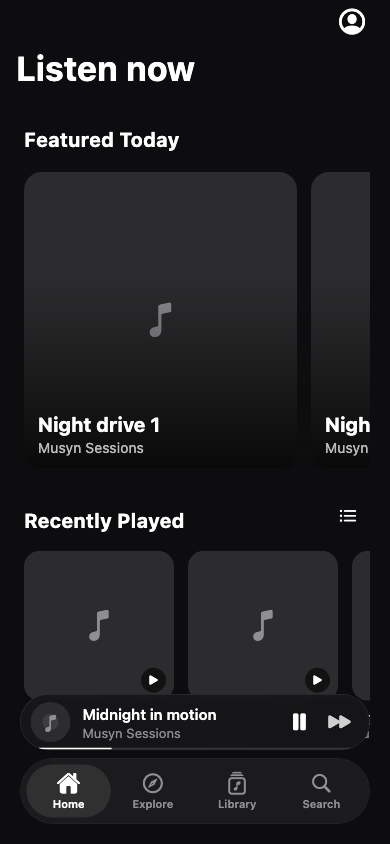
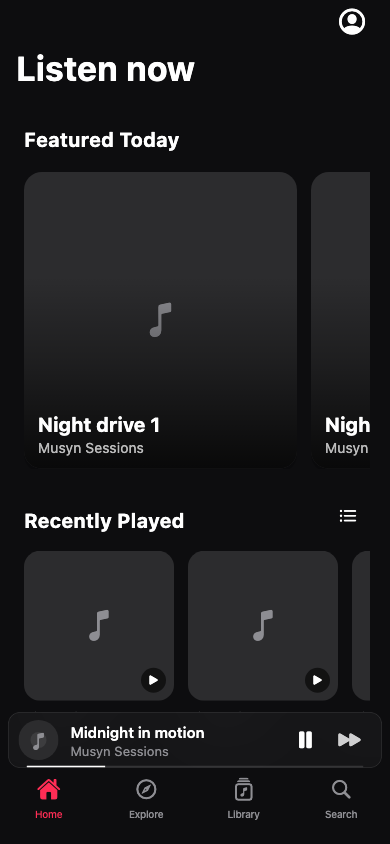
docs: refresh Musyn release previews

diff --git a/docs/musyn.html b/docs/musyn.html
@@ -163,7 +163,7 @@
 </nav>
 </footer>
 </div>
-<script src="assets/js/musyn.js">
+<script src="assets/js/musyn.js?v=0.1.5">
 </script>
 <!-- Cloudflare Web Analytics -->
 <script type="module" src="https://static.cloudflareinsights.com/beacon.min.js" data-cf-beacon='{"token":"221b6d4d6a374533bbdf5fec04bee453"}'>
